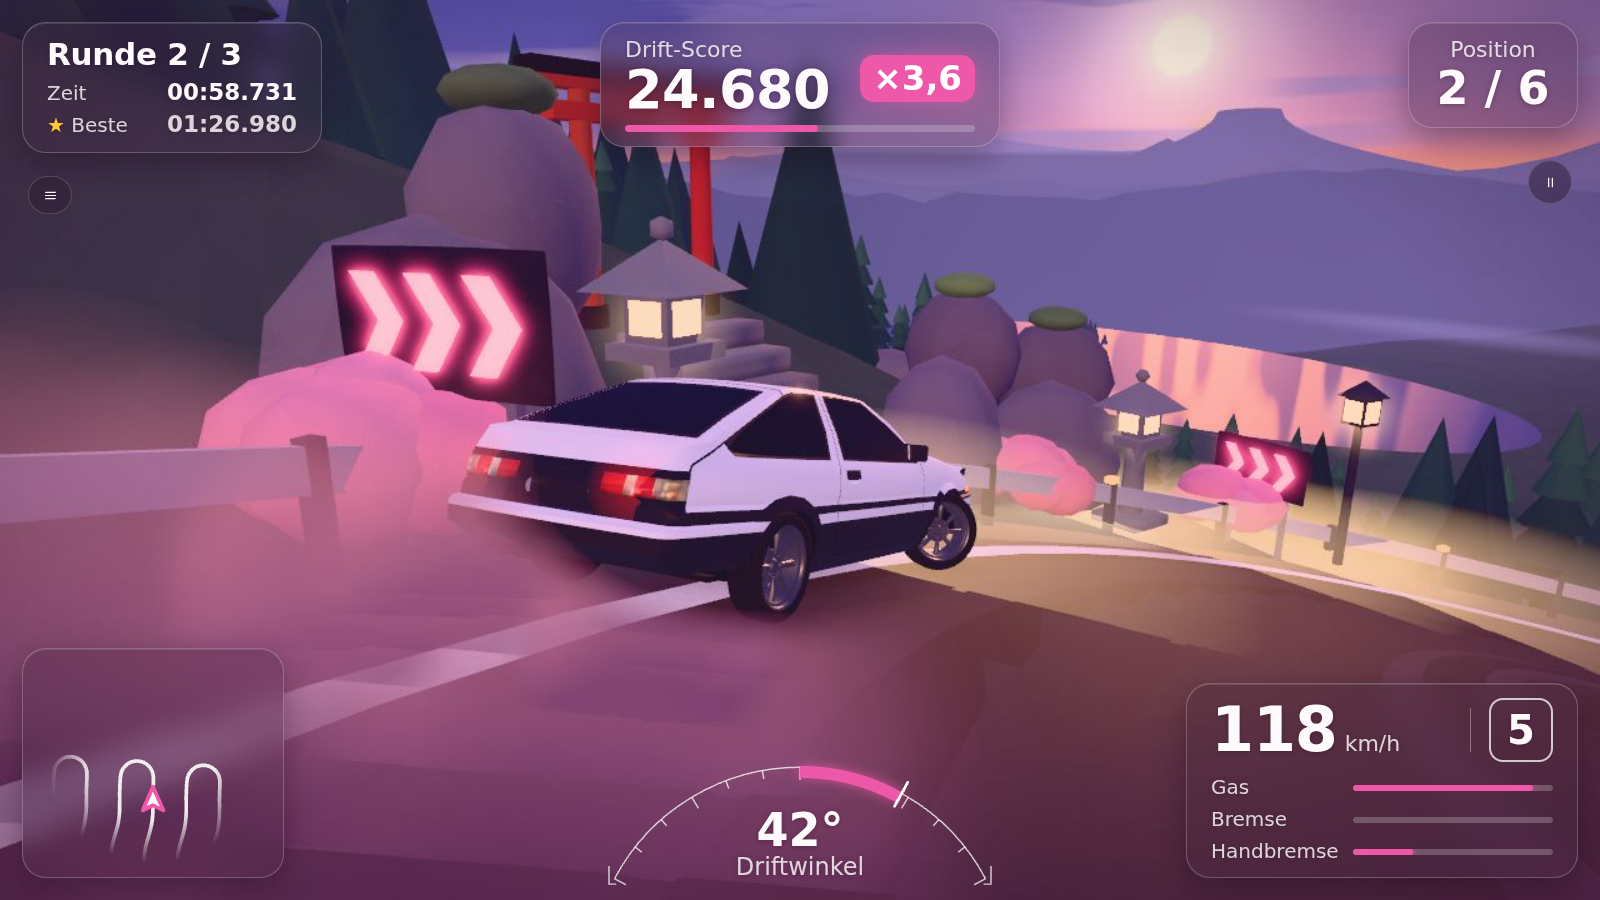
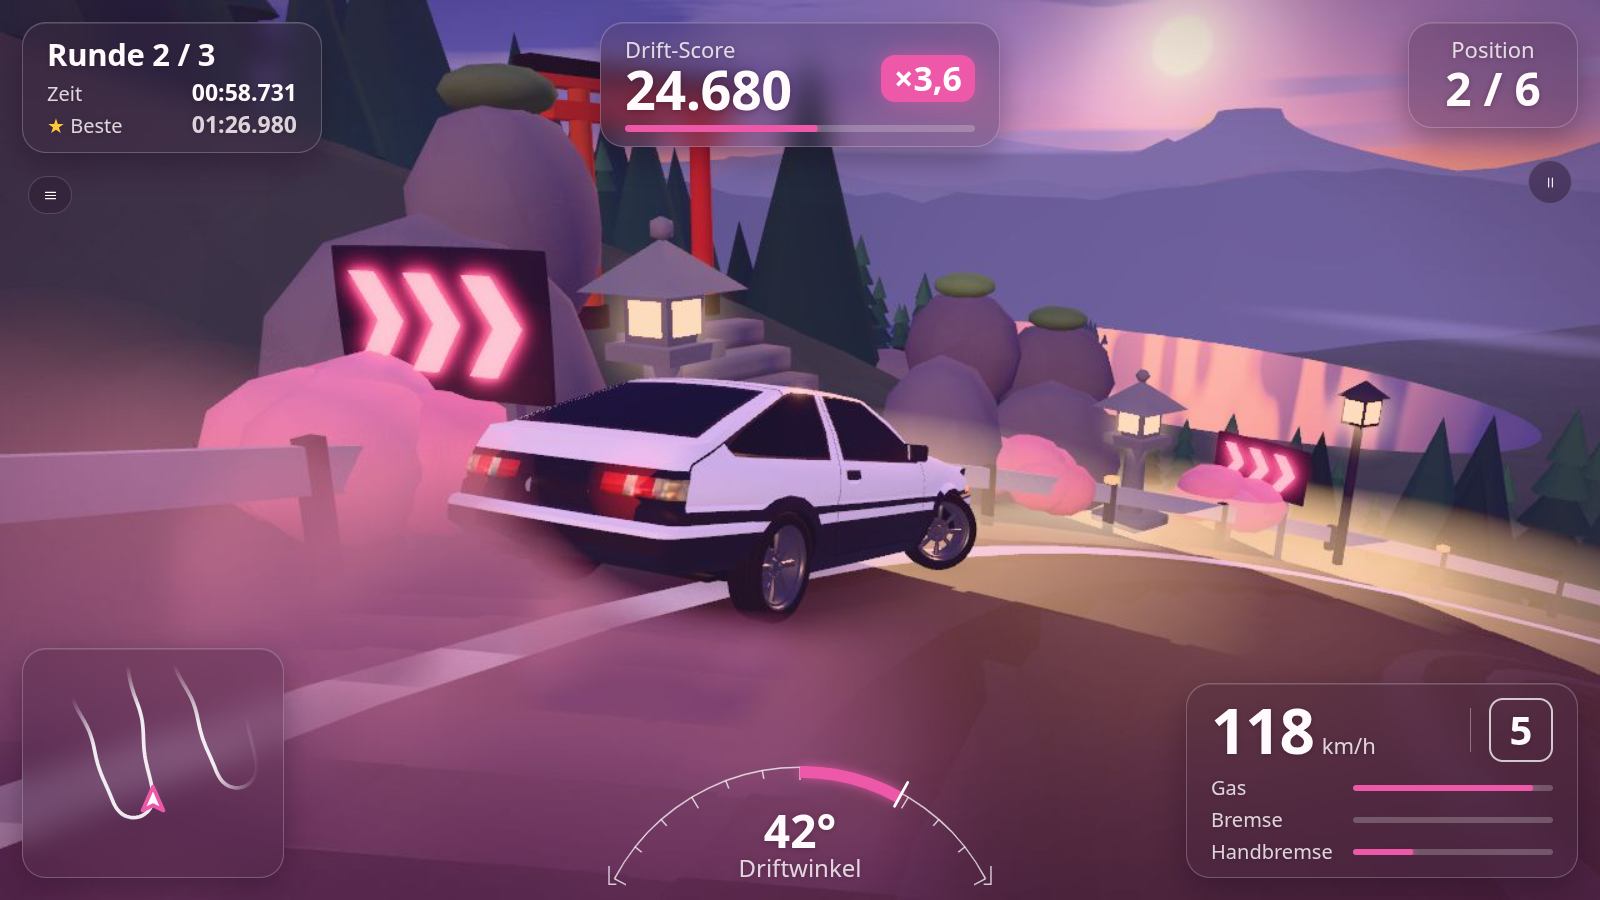
HUD on a fixed grid (D5, D8): view/frame.js and frame.css place every part in one of nine named places with the safe area counted in; messages in the middle row; cards scale with the smaller side, buttons stay at least 44 px; tools/uicheck.mjs checks eleven screens in three states with an overview s

diff --git a/game/frame.css b/game/frame.css
@@ -1,0 +1,72 @@
+/* The HUD's frame (view/frame.js): one grid over the whole screen with nine named places, the safe area (notch, rounded corners) counted in.
+   Every part stands in exactly one place: nothing overlaps, nothing leaves the screen. Loaded after every other style of the game page, so that
+   the old fixed positions of the parts (style.css, probe.css, game.css, the app's play.css) do not count inside the frame. */
+:root { --edge: clamp(8px, 1.4vw, 28px); --fgap: clamp(6px, 1vw, 16px); }
+body.touch { --edge: clamp(6px, 1.2vw, 12px); --fgap: clamp(4px, 0.9vw, 8px); }
+
+#phud { z-index: 3; padding: 0; }
+#phud > .frame { zoom: 1 !important; }   /* (probe.css scales every child of #phud on a PC; inside the frame each part is scaled itself) */
+.frame {
+  position: fixed; inset: 0; display: grid; pointer-events: none;
+  padding: max(var(--edge), env(safe-area-inset-top)) max(var(--edge), env(safe-area-inset-right)) max(var(--edge), env(safe-area-inset-bottom)) max(var(--edge), env(safe-area-inset-left));
+  grid-template-areas: "tl top tr" "mid mid mid" "bl bot br";
+  grid-template-columns: minmax(0, 1fr) auto minmax(0, 1fr);
+  grid-template-rows: auto minmax(0, 1fr) auto;
+  gap: var(--fgap);
+}
+.slot { display: flex; flex-direction: column; gap: var(--fgap); min-width: 0; min-height: 0; }
+.slot-tl { grid-area: tl; align-items: flex-start; }
+.slot-top { grid-area: top; align-items: center; }
+.slot-tr { grid-area: tr; align-items: flex-end; }
+/* the middle row: the menu on the left, the messages in the middle (as wide as what is left, never wider), reset on the right */
+.mid { grid-area: mid; display: grid; grid-template-columns: auto minmax(0, 1fr) auto; gap: var(--fgap); min-height: 0; }
+.slot-ml { align-items: flex-start; }
+.slot-msg { align-items: center; overflow: hidden; }   /* the messages never spill over the cards below */
+.slot-mr { align-items: flex-end; }
+.slot-bl { grid-area: bl; align-items: flex-start; justify-content: flex-end; }
+.slot-bot { grid-area: bot; align-items: center; justify-content: flex-end; }
+.slot-br { grid-area: br; align-items: flex-end; justify-content: flex-end; }
+
+/* a part inside the frame stands where its place puts it: the old fixed positions do not count */
+#phud .frame .slot > * {
+  position: relative !important; inset: auto !important; left: auto !important; right: auto !important; top: auto !important; bottom: auto !important;
+  transform: none !important; margin: 0 !important; flex: none; max-width: 100%;
+}
+/* the cards grow and shrink with the screen (view/frame.js, hudScale); buttons keep their size (a finger does not shrink with the screen) */
+#phud .frame .slot > :is(.card, .c-angle) { zoom: var(--hud-scale, 1); }
+#phud .frame .slot > [hidden], #phud .frame .slot > .p-toast:empty { display: none !important; }
+#phud .frame :is(button, a, input, select, .btn, #racebar, #invite) { pointer-events: auto; }
+
+/* the messages: one column in the middle, each one on its own line */
+.slot-msg > :is(#tip, #note, #hint, #damage) { max-width: min(100%, 640px); text-align: center; white-space: normal; }
+#phud .frame #hud { display: flex; flex-direction: column; align-items: center; gap: 6px; max-width: 100%; }
+#phud .frame #chips { max-width: min(100%, 420px); }
+/* a phone: the open menu is one row to swipe sideways (every button stays 44 px; three rows would not fit between the cards and the pads) */
+body.touch #phud .frame #chips.open { max-width: 100%; flex-wrap: nowrap; overflow-x: auto; overscroll-behavior-x: contain; scrollbar-width: none; padding-bottom: 2px;
+  -webkit-mask-image: linear-gradient(90deg, #000 calc(100% - 24px), transparent); mask-image: linear-gradient(90deg, #000 calc(100% - 24px), transparent); }
+body.touch #phud .frame #chips.open > * { flex: none; }
+/* a phone: an open menu is the only thing in the middle (the messages wait until it is closed) */
+body.touch .slot-msg:has(> #chips.open) > :not(#chips) { display: none !important; }
+body.touch #chips > #volume { height: 44px; }
+
+/* the steering pads (they have left #touch) in the same smoked glass as the cards (probe.css), shown only when the touch controls are on */
+body:not(.touch-on) #phud .frame .pad { display: none; }
+#phud .frame .pad .btn { background: oklch(0.3 0.04 330 / 0.42); color: var(--white); border: 1px solid oklch(1 0 0 / 0.35); box-shadow: var(--shadow); text-shadow: 0 1px 4px oklch(0.2 0.06 330 / 0.4); }
+#phud .frame .pad .btn.gas { border-color: oklch(0.68 0.2 var(--accent-hue) / 0.8); box-shadow: var(--shadow), 0 0 16px oklch(0.68 0.2 var(--accent-hue) / 0.35); }
+#phud .frame .pad .btn.on { background: var(--accent); border-color: #fff; }
+
+/* every button a finger can press is at least 44 px (the switches were 40 on a phone) */
+body.touch #chips > button, body.touch #chips-toggle, body.touch #reset, body.touch #fs, body.touch #back { width: 44px; height: 44px; min-width: 44px; min-height: 44px; }
+body.touch #chips > #feel, body.touch #chips > #phys-chip, body.touch #chips > #mode-drift, body.touch #chips > #mode-time { width: auto; }
+body.touch #hud :is(#racebar button, #invite button, #rh-leave), body.touch #hud #mapSel { min-height: 44px; }
+#back { display: grid; place-items: center; }
+
+/* a phone held sideways: the minimap beside the lap card, the menu buttons in a row, the speed card at the top right */
+body.touch .slot-tl { flex-direction: row; }
+body.touch .slot-ml { flex-direction: row; flex-wrap: wrap; }
+body.touch .slot-tr { flex-direction: row-reverse; align-items: flex-start; }
+
+/* a phone: the messages are short lines (the middle row is low between the cards and the pads) */
+body.touch .slot-msg { gap: 4px; }
+body.touch .slot-msg > :is(#note, #tip, #damage) { font-size: 12px; line-height: 1.2; padding: 3px 9px; border-radius: 9px; }
+body.touch .slot-msg > .p-toast { font-size: 18px; line-height: 1.1; }

diff --git a/game/view/frame.js b/game/view/frame.js
@@ -1,0 +1,82 @@
+// The frame of the HUD: one grid over the whole screen with nine named places, the safe area of the screen (notch, rounded corners) counted in.
+// Every part of the HUD stands in exactly one place, so nothing can lie on top of something else and nothing can leave the screen; the messages
+// (toasts, damage, hints, the race bar) have a place of their own in the middle, between the score and the angle. The parts are made elsewhere
+// (view/probehud.js, main.js, the app's page): this module only moves them into their place, also the ones made later (it watches for them).
+//
+//   tl  | top | tr        top left: lap card (and on a phone the minimap)   top: drift score        top right: position, speed on a phone
+//   ml  | msg | mr        middle left: the menu button and its switches      middle: the messages    middle right: reset
+//   bl  | bot | br        bottom left: minimap / steering pad                bottom: drift angle     bottom right: speed card / pedals
+//
+// The sizes are in game/frame.css (grid, gaps with clamp(), touch sizes). Modal windows (result, summary, the name box, the turn hint) stay
+// outside: they are meant to cover the game while they are open.
+
+/** Where each part goes: [CSS selector, place on a PC, place on a touch screen]. The first match of a selector is placed; order inside a place follows this list. */
+export const PLACES = [
+  ['.c-lap', 'tl', 'tl'],
+  ['.c-map', 'bl', 'tl'],
+  ['.c-score', 'top', 'top'],
+  ['.c-pos', 'tr', 'tr'],
+  ['.c-speed', 'br', 'tr'],
+  ['#back', 'ml', 'ml'],
+  ['#chips-toggle', 'ml', 'ml'],
+  ['#fs', 'ml', 'ml'],
+  ['#chips', 'ml', 'msg'],
+  ['#emotes', 'ml', 'msg'],
+  ['#reset', 'tr', 'mr'],
+  ['#hud', 'msg', 'msg'],
+  ['.p-toast', 'msg', 'msg'],
+  ['#damage', 'msg', 'msg'],
+  ['#note', 'msg', 'msg'],
+  ['#tip', 'msg', 'msg'],
+  ['#hint', 'msg', 'msg'],
+  ['.c-angle', 'bot', 'bot'],
+  ['#touch .pad.left', null, 'bl'],
+  ['#touch .pad.right', null, 'br'],
+  ['#credits-link', 'br', 'mr'],
+];
+const NAMES = ['tl', 'top', 'tr', 'ml', 'msg', 'mr', 'bl', 'bot', 'br'];
+
+/** Builds the frame inside `root` (the HUD's layer, #phud) and keeps every known part in its place. Returns the frame. */
+export function mountFrame(root) {
+  if (root.querySelector(':scope > .frame')) return root.querySelector(':scope > .frame');
+  const frame = Object.assign(document.createElement('div'), { className: 'frame' });
+  // the middle row has its own small grid (narrow left, the messages, narrow right), so that a long message never widens the middle column of the cards
+  const mid = Object.assign(document.createElement('div'), { className: 'mid' });
+  const slots = Object.fromEntries(NAMES.map((n) => { const s = Object.assign(document.createElement('div'), { className: `slot slot-${n}` }); s.dataset.slot = n; (['ml', 'msg', 'mr'].includes(n) ? mid : frame).append(s); return [n, s]; }));
+  frame.insertBefore(mid, slots.bl);
+  root.prepend(frame);
+  const touch = () => document.body.classList.contains('touch');
+  const placed = new Set();
+  const place = () => {
+    const t = touch();
+    for (const [sel, pc, tc] of PLACES) {
+      const el = document.querySelector(sel), slot = slots[t ? tc : pc];
+      if (!el || !slot) continue;
+      // keep the order of the list inside a place: put it after the last placed part of an earlier line in the same place
+      if (el.parentElement !== slot || !placed.has(el)) {
+        const before = [...slot.children].find((c) => PLACES.findIndex(([s]) => c.matches(s)) > PLACES.findIndex(([s]) => s === sel));
+        slot.insertBefore(el, before ?? null);
+        placed.add(el);
+      }
+    }
+  };
+  place();
+  // parts made later (the menu, the damage note, the race bar, a toast) and a switch between PC and touch controls
+  let queued = false;
+  const later = () => { if (!queued) { queued = true; queueMicrotask(() => { queued = false; place(); }); } };
+  new MutationObserver(later).observe(document.body, { childList: true });
+  new MutationObserver(later).observe(document.body, { attributes: true, attributeFilter: ['class'] });
+  new MutationObserver(later).observe(root, { childList: true });
+  // the steering pads leave #touch: they show and hide with it (a class on the body, the pads' rule is in frame.css)
+  const nav = document.getElementById('touch');
+  if (nav) { const sync = () => document.body.classList.toggle('touch-on', !nav.hidden); new MutationObserver(sync).observe(nav, { attributes: true, attributeFilter: ['hidden'] }); sync(); }
+  return frame;
+}
+
+/**
+ * The scale of the cards: they are drawn for 1600 x 900 (a PC) or 844 x 390 (a phone held sideways) and grow and shrink with the window,
+ * by the smaller of width and height so that a wide but low window (an ultrawide screen, a phone) keeps its rows apart.
+ */
+export function hudScale(w, h, touch) {
+  return touch ? Math.max(0.8, Math.min(1.5, w / 844, h / 390)) : Math.max(0.6, Math.min(1.35, w / 1600, h / 900));
+}

diff --git a/game/view/probehud.js b/game/view/probehud.js
@@ -3,6 +3,8 @@
 // turns with the car (heading up); bottom centre the drift angle on a wide open arc; bottom right speed, a gear (made up from the
 // speed: the physics has none) and bars for throttle, brake and handbrake. Two levels as in the game (H): plain hides the arc and the bars. Text goes in as text; the DOM is touched only
 // when a value changes.
+import { mountFrame, hudScale } from './frame.js';
+
 const NS = 'http://www.w3.org/2000/svg';
 const LEVELS = ['plain', 'driver'];
 
@@ -38,10 +40,12 @@ export class ProbeHud {
     // ?hud=off hides it (for pictures of the scene alone)
     this.level = wanted === 'off' || LEVELS.includes(wanted) ? wanted : LEVELS.includes(kept) ? kept : 'driver';
     this.root = root;
-    // on a big screen the cards are drawn at the mockup's size (made for 1600 px wide) and scaled with the window
-    const fit = () => root.style.setProperty('--hud-scale', Math.max(0.5, Math.min(1.25, innerWidth / 1600)).toFixed(3));
+    // the cards are drawn at the mockup's size (1600 x 900, a phone 844 x 390) and scaled with the window (view/frame.js)
+    const fit = () => root.style.setProperty('--hud-scale', hudScale(innerWidth, innerHeight, document.body.classList.contains('touch')).toFixed(3));
     addEventListener('resize', fit); fit();
     this.build(mapShapes);
+    mountFrame(root);   // every part of the HUD in one place of a grid over the screen (game/frame.css)
+    new MutationObserver(fit).observe(document.body, { attributes: true, attributeFilter: ['class'] });
   }
 
   build(shapes) {

diff --git a/src/Drift/wwwroot/play/index.html b/src/Drift/wwwroot/play/index.html
@@ -10,6 +10,7 @@
 <link rel="stylesheet" href="probe.css">
 <link rel="stylesheet" href="game.css">
 <link rel="stylesheet" href="play.css">
+<link rel="stylesheet" href="frame.css">
 </head>
 <body>
 <a id="back" href="/" aria-label="Back to the garage">&#8592;</a>

diff --git a/game/index.html b/game/index.html
@@ -9,6 +9,7 @@
 <link rel="stylesheet" href="style.css">
 <link rel="stylesheet" href="probe.css">
 <link rel="stylesheet" href="game.css">
+<link rel="stylesheet" href="frame.css">
 </head>
 <body>
 <canvas id="view" tabindex="0" aria-label="Drift game"></canvas>

diff --git a/docs/STATE.md b/docs/STATE.md
@@ -538,3 +538,18 @@ A static page with sample data, no server logic, no inline script; every text th
 - The game: `?demo=line` with the hills on drives the track bot; the practice partner (key B) drives the surface model when the hills are on; `?shot=kehre|tal|platz` are made again with the track bot on the surface model (`tools/make-shots.mjs`) and always run on it (`?phys=0` forces the flat one): the pictures and checks now show the car the new model drives. A hairpin is taken sideways at about 45 km/h and 34 to 40 degrees (the old pictures showed 80 km/h: the flat model on a road with no limits). Pictures: `docs/screenshots/track2/touge3-*.png`.
 - Tests: `game/sim/trackbot.test.mjs` (3). Node 216 pass. Play check: the page loads at all sizes, the one known problem of slice 3.
 - Not done: `tools/posecheck.mjs` (the car chat's) still drives its sample road with the line bot and the flat model; the default for players is still the flat model (the switch is the owner's to flip).
+
+## The HUD on a fixed grid (D5, D8 of FEHLER-0.6.2)
+- `game/view/frame.js` and `game/frame.css`: one grid over the whole screen with nine named places (top left, top, top right; a middle row
+  of its own with the menu, the messages and reset; bottom left, bottom, bottom right). The safe area (notch, rounded corners) is in its
+  padding; gaps with clamp(). Every part of the HUD stands in exactly one place; the parts made later by main.js or the app's page are
+  placed when they appear (a MutationObserver), so main.js is unchanged. ProbeHud mounts the frame. The messages (toast, damage, note, tip,
+  key hint, the race bar) have the middle to themselves and never spill over the cards. Cards scale by the smaller of width/1600 and
+  height/900 (a phone: 844 x 390); buttons keep their size, at least 44 px on a touch screen. On a phone the open menu is one row to swipe.
+- Cause of D5: the cards were placed `absolute` inside #phud, whose safe-area padding does not move absolute children, so on a phone with a
+  notch the left cards lay under it. Cause of D8: the messages were all placed at fixed heights round the top middle (96 to 168 px) and the
+  switches, the damage note and the key hint at fixed spots, so they met the score card and each other.
+- `tools/uicheck.mjs` (run through devq): eleven screens, from 640 x 360 with a notch to 3440 x 1440, each quiet, with messages and with
+  the menu open; checks every part inside the screen and its safe area, no overlap, nothing cut off by its place, touch buttons at least
+  44 px, no page errors; an overview sheet. First run: passed, 33 pictures (docs/screenshots/uicheck-overview.png).
+- Not checked: a real phone (the safe area is emulated by Chromium), the race bar and the invitation in a real race.
